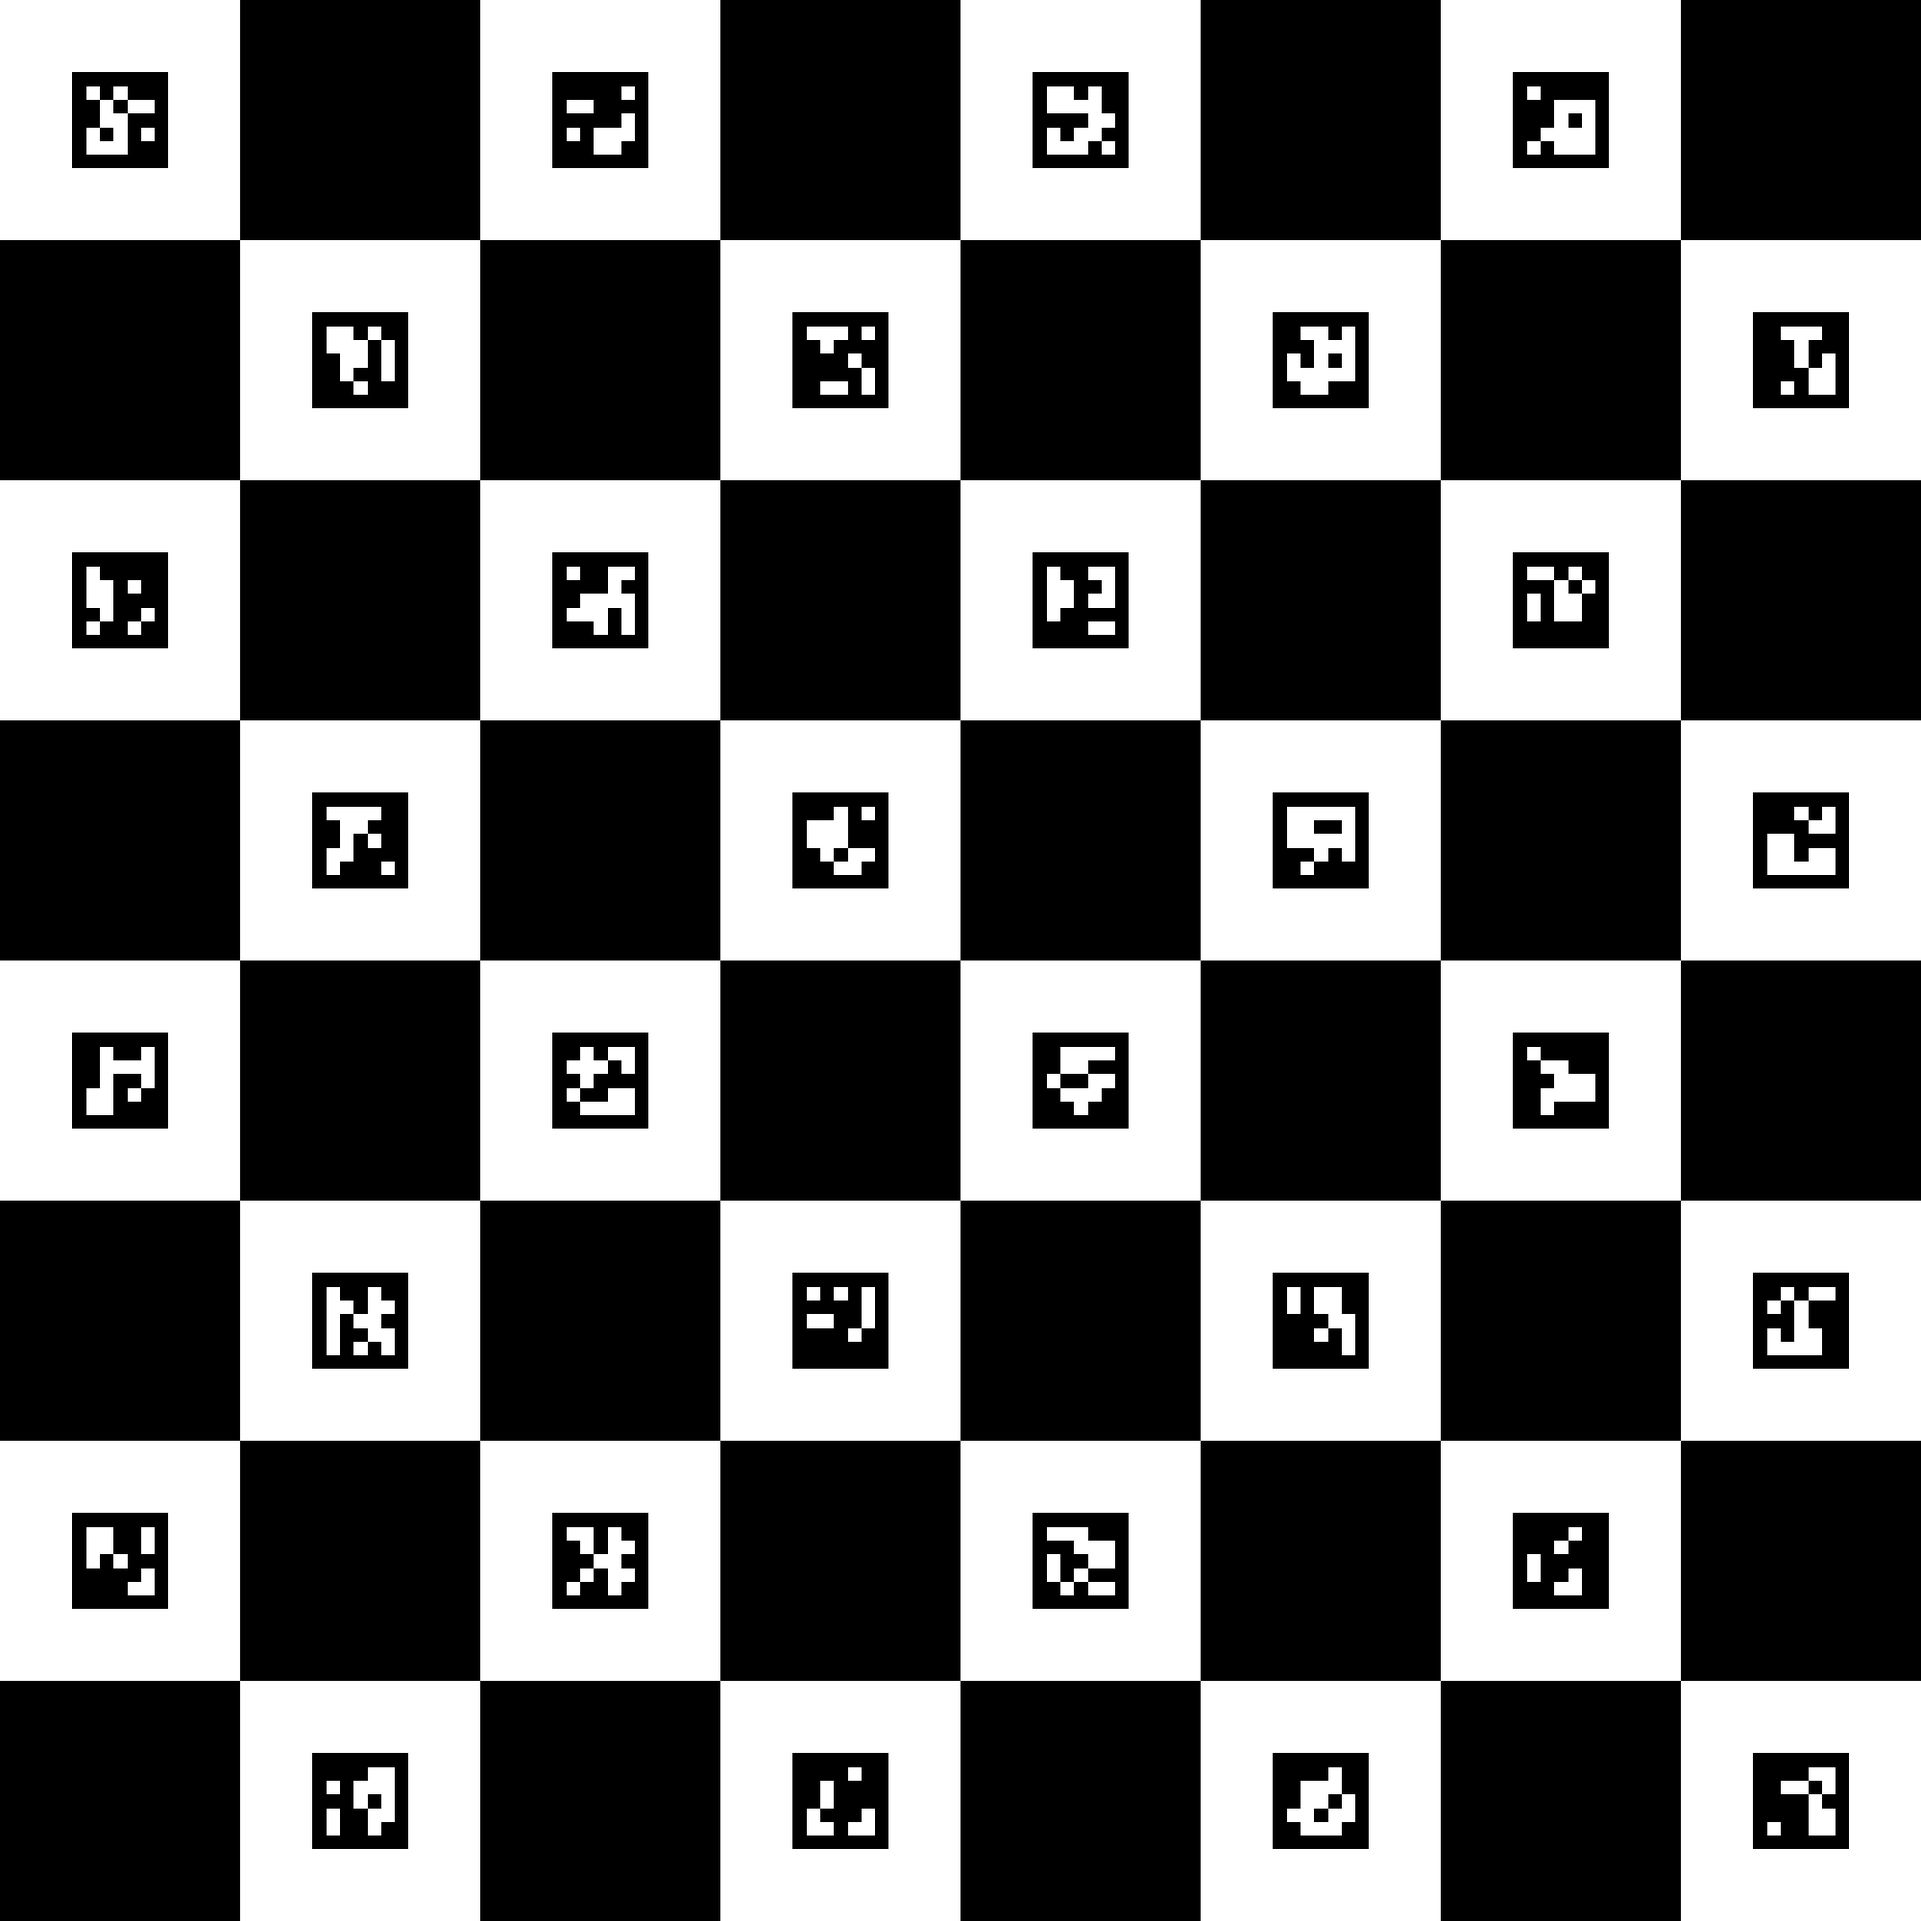
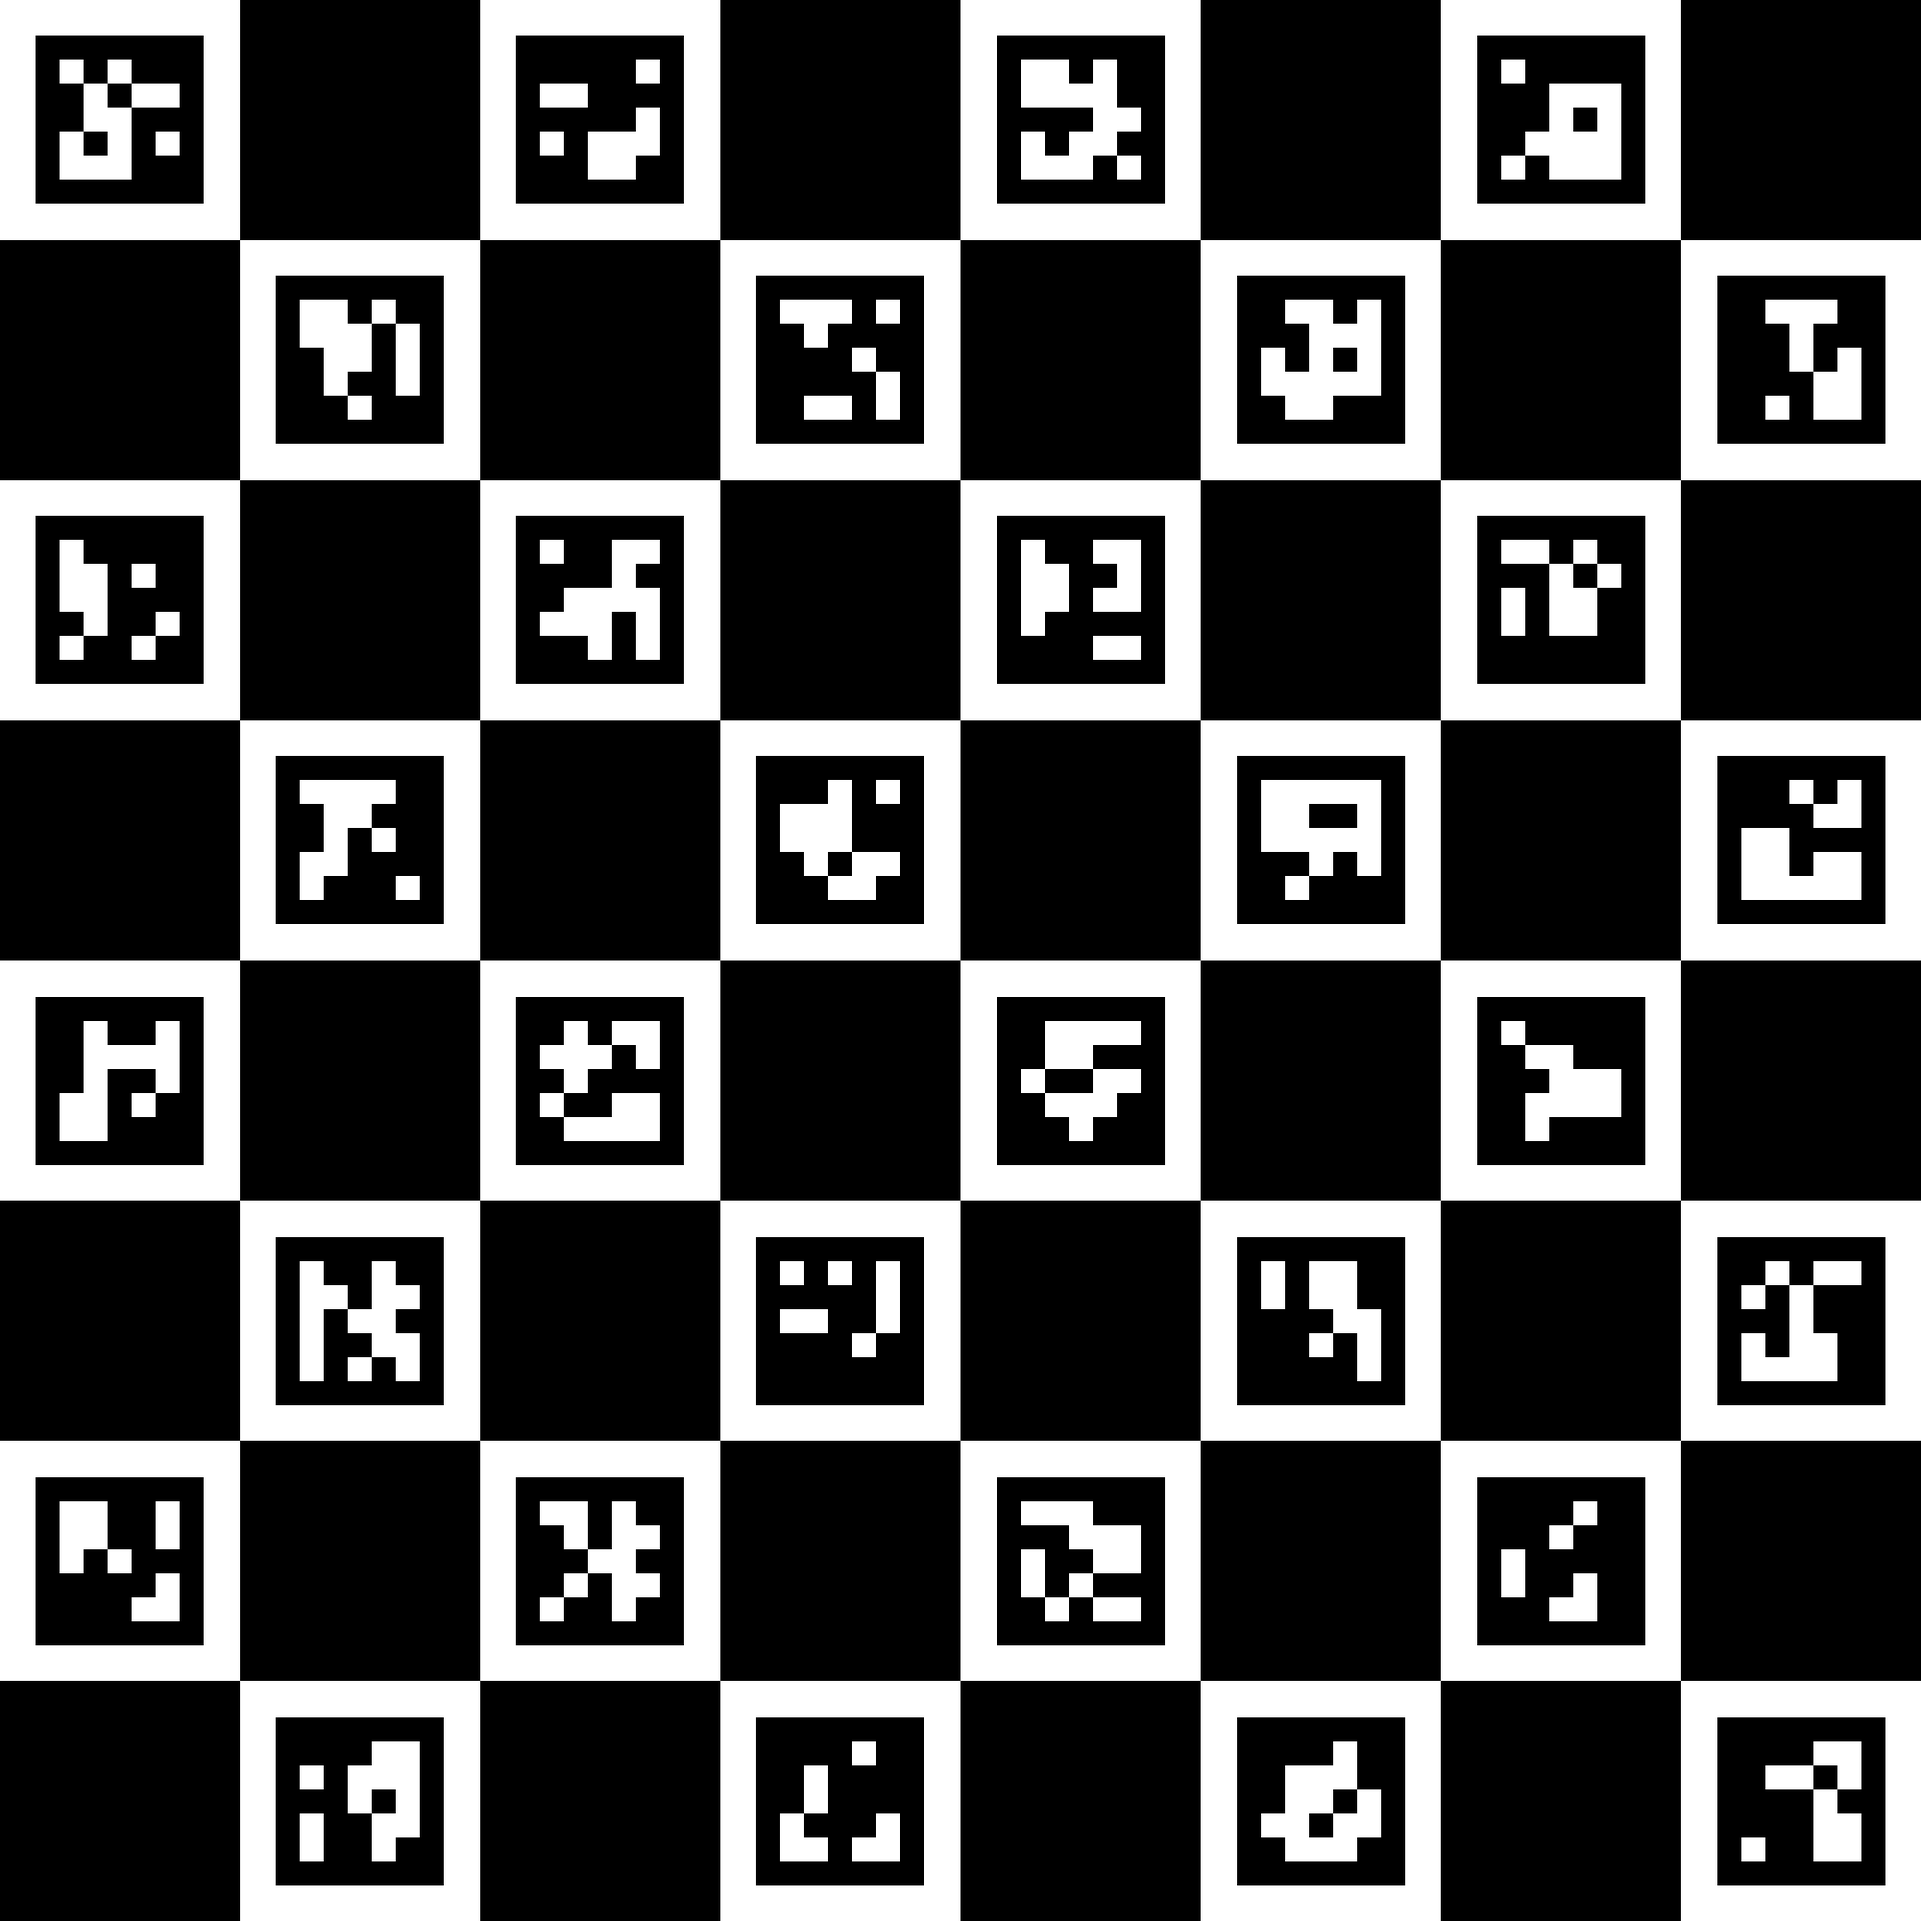
added charuco

diff --git a/main.py b/main.py
@@ -42,6 +42,22 @@ winSize = (5, 5)
 zeroZone = (-1, -1)
 criteria = (cv.TERM_CRITERIA_EPS + cv.TermCriteria_COUNT, 40, 0.001)
 
+# ChAruco board variables
+row_count = 8
+col_count = 8
+square_length = 1
+marker_length = 0.4
+aruco_dict = aruco.Dictionary_get(aruco.DICT_5X5_250)
+
+# Create constants to be passed into OpenCV and Aruco methods
+board = aruco.CharucoBoard_create(
+        squaresX=col_count,
+        squaresY=row_count,
+        squareLength=square_length,
+        markerLength=marker_length,
+        dictionary=aruco_dict)
+arucoParams = aruco.DetectorParameters_create()
+
 cap = cv.VideoCapture(1)
 # _, mtx, dist, _, _ = pickle.load(open("my_camera_calibration.p", "rb"))
 with np.load('cap_int_params.npz') as data:
@@ -205,6 +221,10 @@ def track(frame):
 
     gray = cv.cvtColor(frame, cv.COLOR_BGR2GRAY) 
     gray = cv.GaussianBlur(gray, winSize, 0)
+
+
+    
+
     aruco_dict = cv.aruco.Dictionary_get(cv.aruco.DICT_4X4_50)  
     parameters = cv.aruco.DetectorParameters_create()  
     parameters.cornerRefinementMethod = cv.aruco.CORNER_REFINE_SUBPIX

diff --git a/charuco_board/create_charuco_board.py b/charuco_board/create_charuco_board.py
@@ -5,7 +5,7 @@ from cv2 import aruco
 row_count = 8
 col_count = 8
 square_length = 1
-marker_length = 0.4
+marker_length = 0.7
 aruco_dict = aruco.Dictionary_get(aruco.DICT_5X5_250)
 
 # Create constants to be passed into OpenCV and Aruco methods
